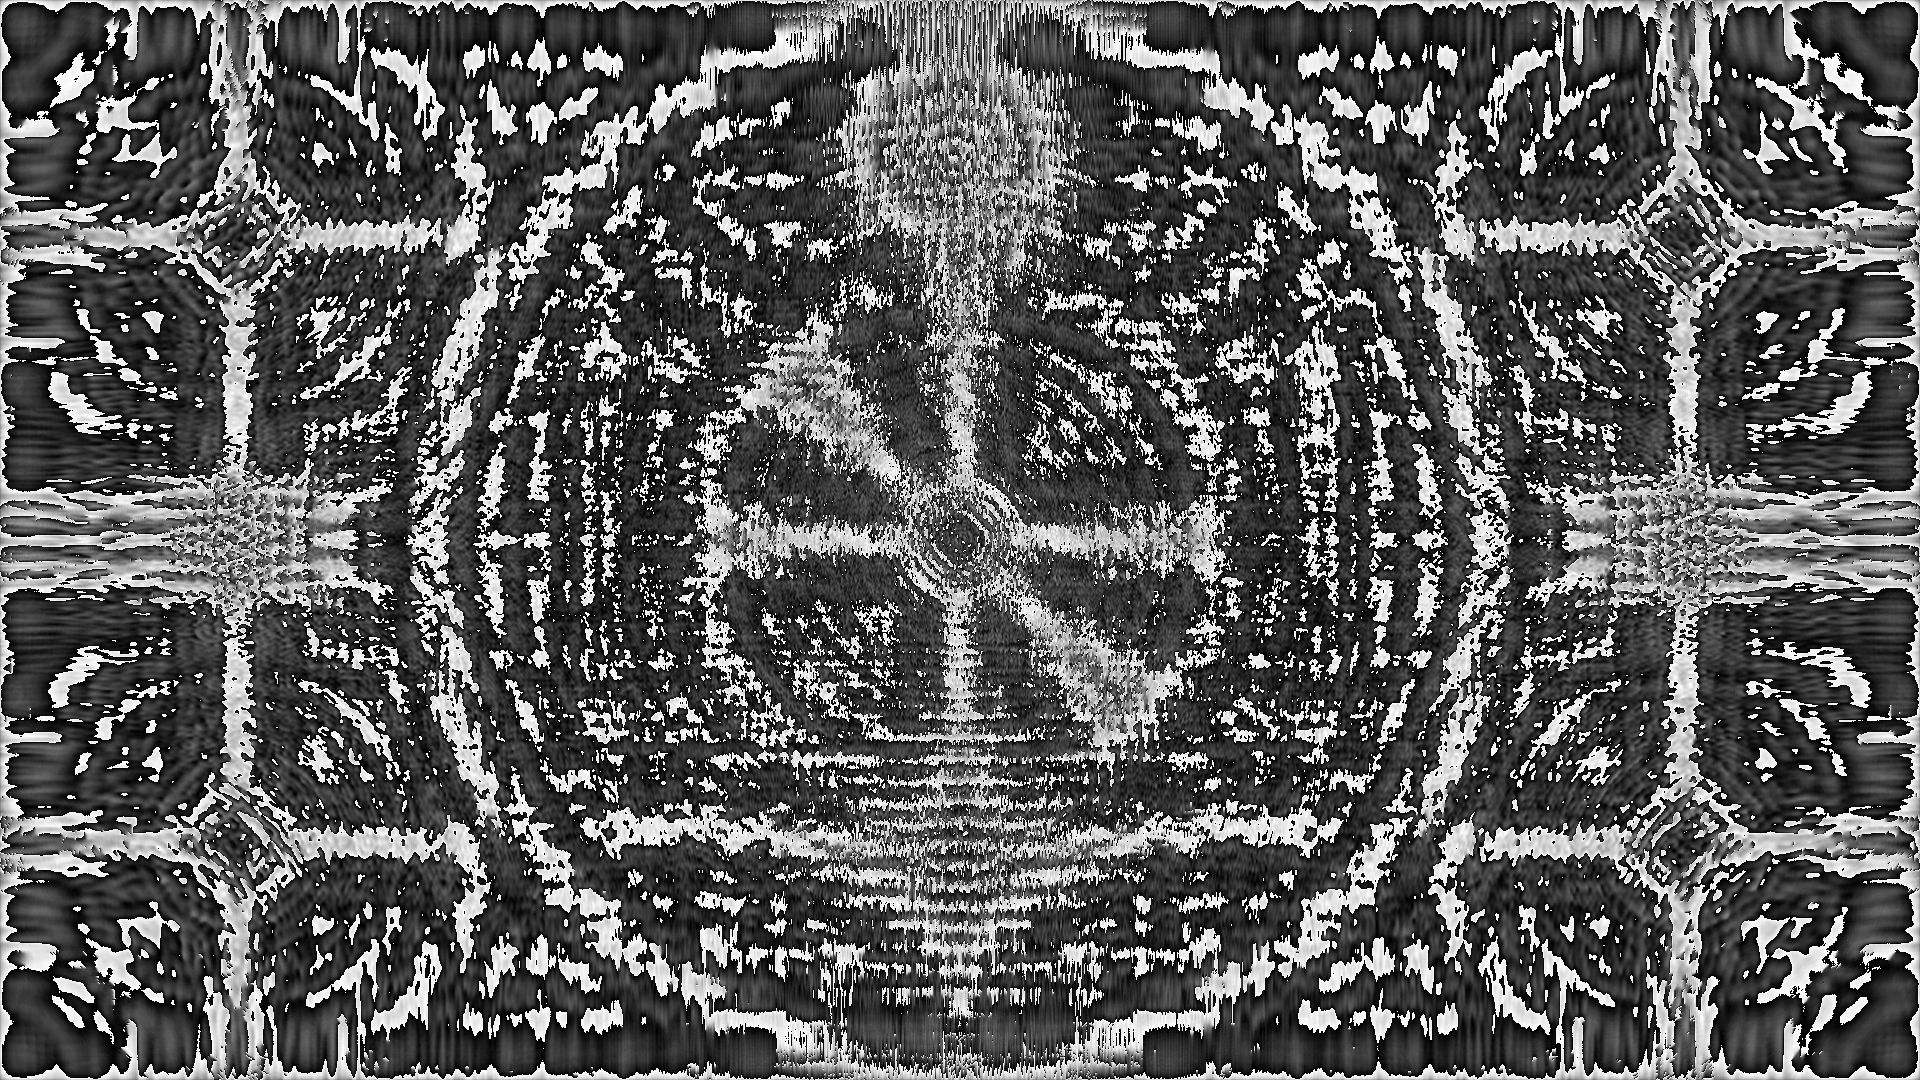
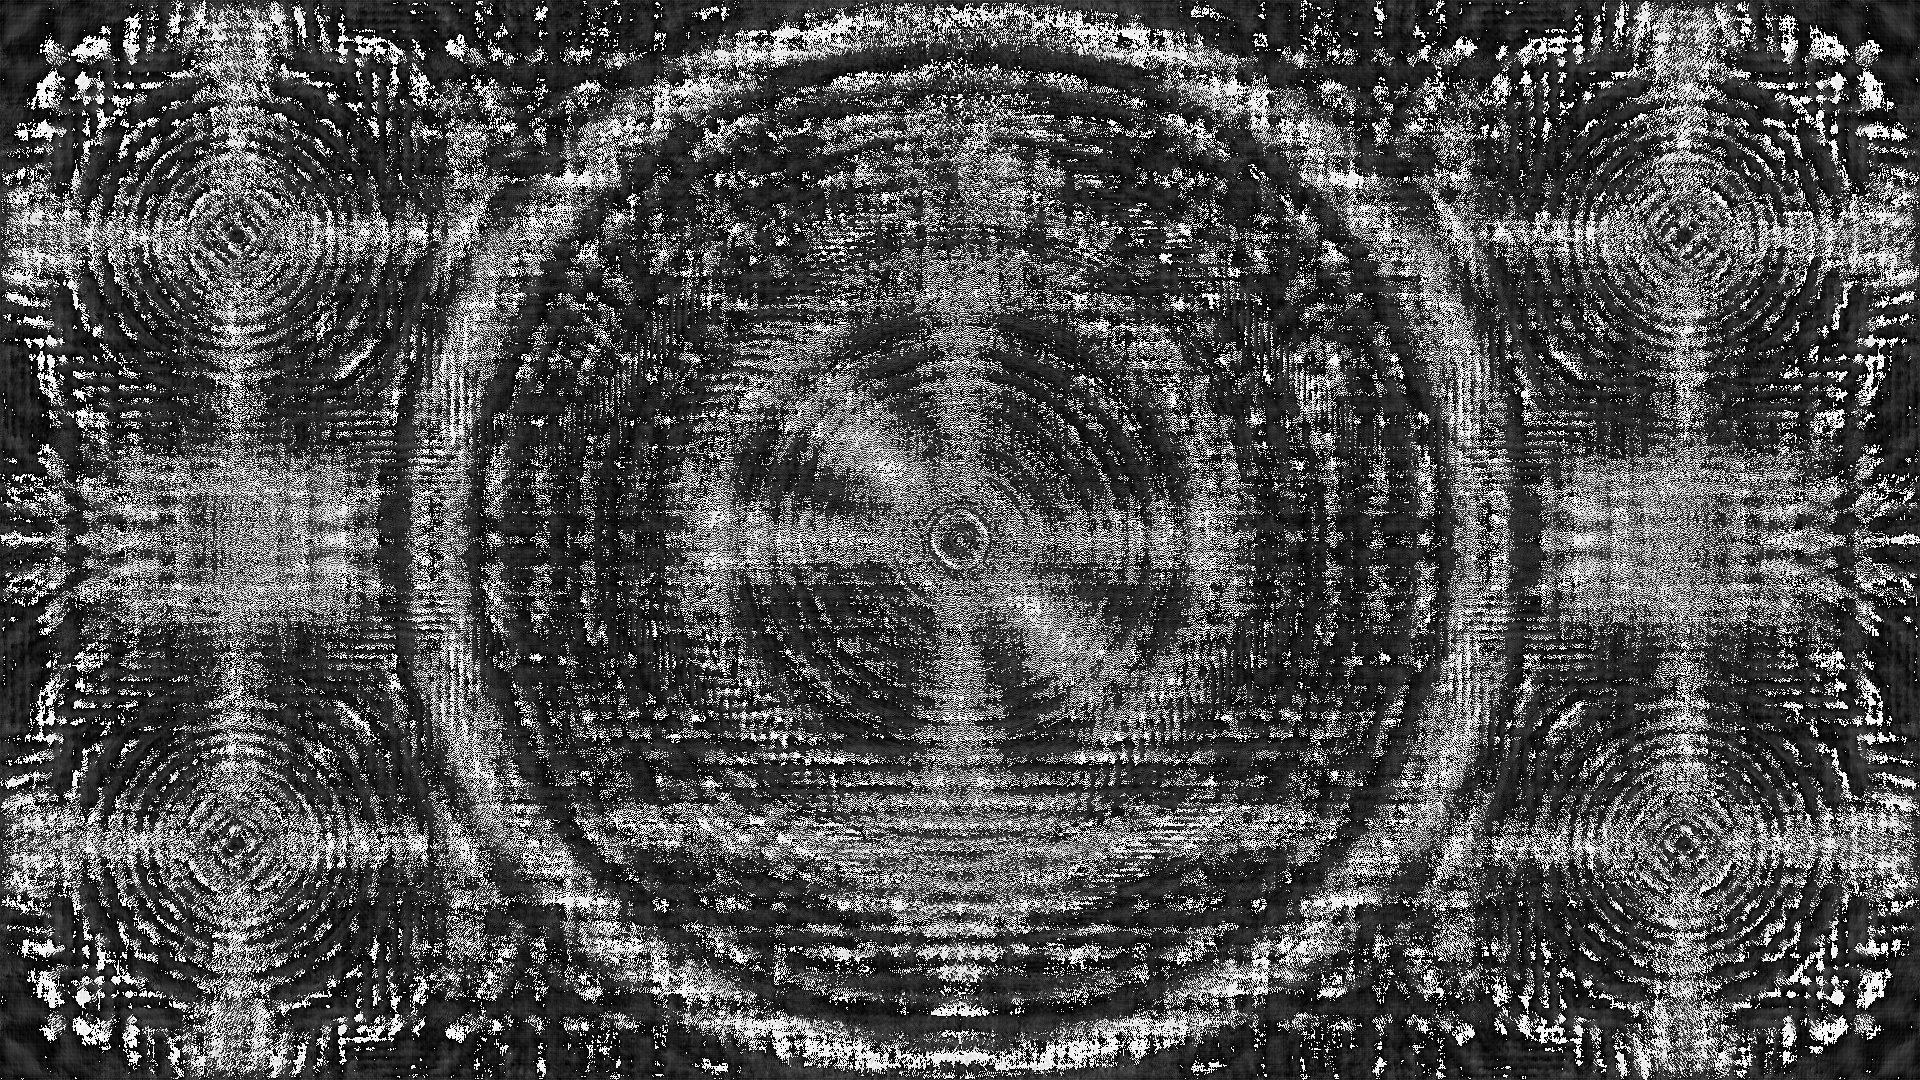
normalization update
normalization added

diff --git a/odakTuto/main.py b/odakTuto/main.py
@@ -18,10 +18,16 @@ distance = 0.15
 
 # target image
 
-data_loader = load_image("target/indian_head.png")
+data_loader = load_image("target/usaf1951.png")
 
 target = data_loader.type(torch.FloatTensor)
 target = target.view(resolution)
+
+# nomalize
+print(torch.max(target))
+if torch.max(target) > 1:
+    target -= target.min(1, keepdim=True)[0]
+    target /= target.max(1, keepdim=True)[0]
 
 # target = torch.zeros(resolution[0], resolution[1])
 # target[300:700, 400:450] = 1.
